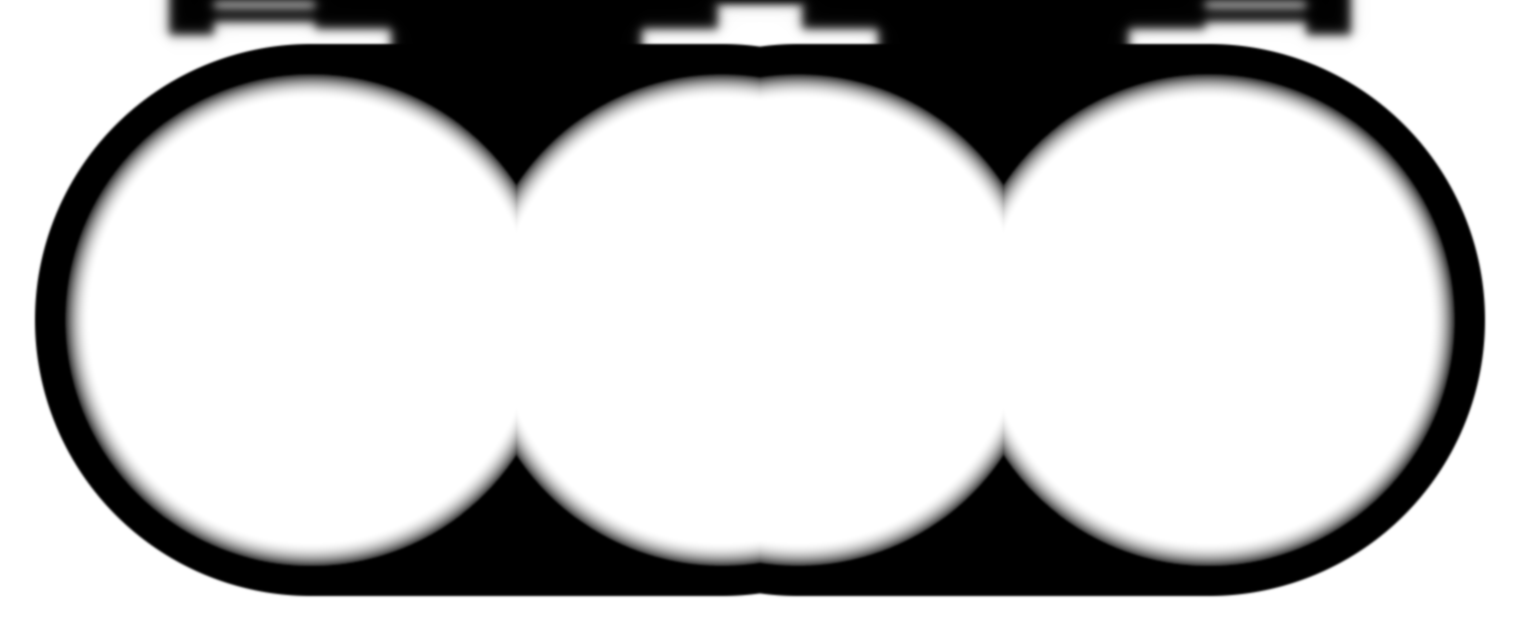
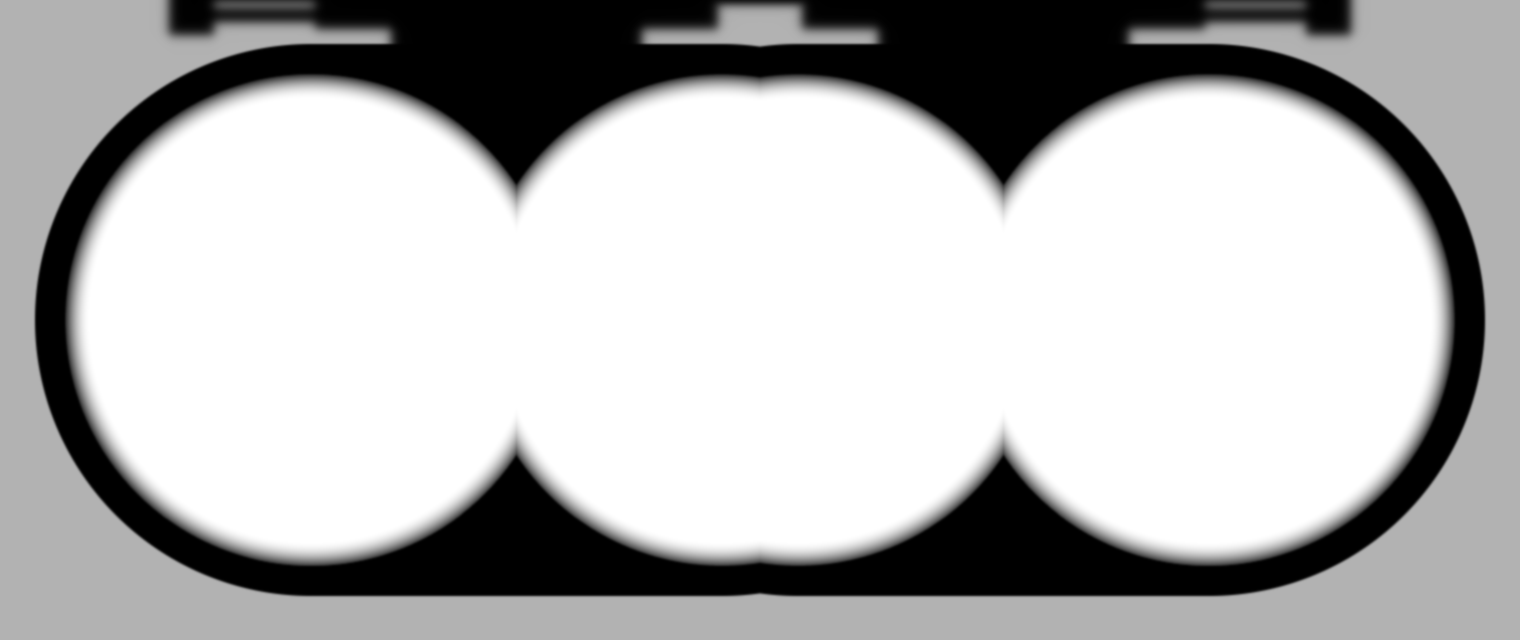
Restore initial renderer integration with master optics

Changed region(s): [[0.0, 0.0, 1.0, 1.0], [0.402, 0.0, 0.5875, 0.0938]]

diff --git a/BorkelRNVG/Controllers/RealisticNightVisionRenderer.cs b/BorkelRNVG/Controllers/RealisticNightVisionRenderer.cs
@@ -183,7 +183,6 @@ public sealed class RealisticNightVisionRenderer : MonoBehaviour
     private static readonly int ExposureTexId = Shader.PropertyToID("_ExposureTex");
     private static readonly int ExposureHistoryId = Shader.PropertyToID("_ExposureHistory");
     private readonly Vector4[] lensDefinitionUpload = new Vector4[MaximumLensDefinitions];
-    private static Texture2D transparentMaskOverlay;
 
     private bool NearPassActive
     {
@@ -218,7 +217,7 @@ public sealed class RealisticNightVisionRenderer : MonoBehaviour
 
     private bool OpticReady
     {
-        get { return lensTexture != null; }
+        get { return lensTexture != null && maskOverlay != null; }
     }
 
     public bool NightVisionEnabled
@@ -240,7 +239,7 @@ public sealed class RealisticNightVisionRenderer : MonoBehaviour
         set { manualGain = value; }
     }
 
-    public void ConfigureRuntime(Shader shader, Texture lens,
+    public void ConfigureRuntime(Shader shader, Texture lens, Texture overlay,
         RealisticNvgSettings settings, SSAAPropagator propagator,
         float globalGain, float globalScale)
     {
@@ -250,9 +249,7 @@ public sealed class RealisticNightVisionRenderer : MonoBehaviour
         effectShader = shader;
         ssaaPropagator = propagator;
         lensTexture = lens as Texture2D;
-        // Tarkov's TextureMask remains responsible for the exterior housing.
-        // The multipass shader must leave every pixel outside the tube untouched.
-        maskOverlay = GetTransparentMaskOverlay();
+        maskOverlay = overlay as Texture2D;
 
         phosphorTint = new Color(settings.PhosphorRed,
             settings.PhosphorGreen, settings.PhosphorBlue, 1f);
@@ -718,9 +715,7 @@ public sealed class RealisticNightVisionRenderer : MonoBehaviour
                 ? lensTexture.width / (float)lensTexture.height
                 : 1f;
         material.SetTexture("_LensTexture", lensTexture);
-        material.SetTexture("_MaskOverlay", maskOverlay != null
-            ? maskOverlay
-            : GetTransparentMaskOverlay());
+        material.SetTexture("_MaskOverlay", maskOverlay);
         material.SetFloat("_OpticTextureAspect", opticAspect);
         material.SetFloat("_OpticTextureScale", opticTextureScale);
         material.SetFloat("_LensAlphaCutoff", lensAlphaCutoff);
@@ -1091,19 +1086,6 @@ public sealed class RealisticNightVisionRenderer : MonoBehaviour
         }
 
         return Mathf.Clamp(deltaTime, 1f / 240f, 0.1f);
-    }
-
-    private static Texture2D GetTransparentMaskOverlay()
-    {
-        if (transparentMaskOverlay != null)
-            return transparentMaskOverlay;
-
-        transparentMaskOverlay = new Texture2D(1, 1, TextureFormat.RGBA32, false);
-        transparentMaskOverlay.name = "Transparent NVG mask overlay";
-        transparentMaskOverlay.hideFlags = HideFlags.HideAndDontSave;
-        transparentMaskOverlay.SetPixel(0, 0, Color.clear);
-        transparentMaskOverlay.Apply(false, true);
-        return transparentMaskOverlay;
     }
 
     private static float CurrentTime()

diff --git a/BorkelRNVG/Patches/NightVisionApplySettingsPatch.cs b/BorkelRNVG/Patches/NightVisionApplySettingsPatch.cs
@@ -31,6 +31,7 @@ namespace BorkelRNVG.Patches
             renderer.ConfigureRuntime(
                 AssetHelper.nightVisionShader,
                 data.LensTexture,
+                data.MaskTexture,
                 data.NightVisionConfig.Values,
                 __instance.GetComponent<SSAAPropagator>(),
                 Plugin.globalGain.Value,
@@ -40,15 +41,7 @@ namespace BorkelRNVG.Patches
 
             __instance.Mask = data.MaskTexture;
             if (__instance.TextureMask != null)
-            {
-                float maskScale = data.NightVisionConfig.Values.OpticScale *
-                                  Plugin.globalMaskSize.Value;
-                __instance.MaskSize = maskScale;
-                __instance.TextureMask.enabled = true;
-                __instance.TextureMask.Mask = data.MaskTexture;
-                __instance.TextureMask.Size = maskScale;
-                __instance.TextureMask.ApplySettings();
-            }
+                __instance.TextureMask.enabled = false;
 
             return false;
         }

diff --git a/BorkelRNVG/Patches/NightVisionAwakePatch.cs b/BorkelRNVG/Patches/NightVisionAwakePatch.cs
@@ -29,6 +29,9 @@ namespace BorkelRNVG.Patches
             if (renderer == null)
                 renderer = __instance.gameObject.AddComponent<RealisticNightVisionRenderer>();
             renderer.enabled = false;
+
+            if (__instance.TextureMask != null)
+                __instance.TextureMask.enabled = false;
         }
     }
 }
